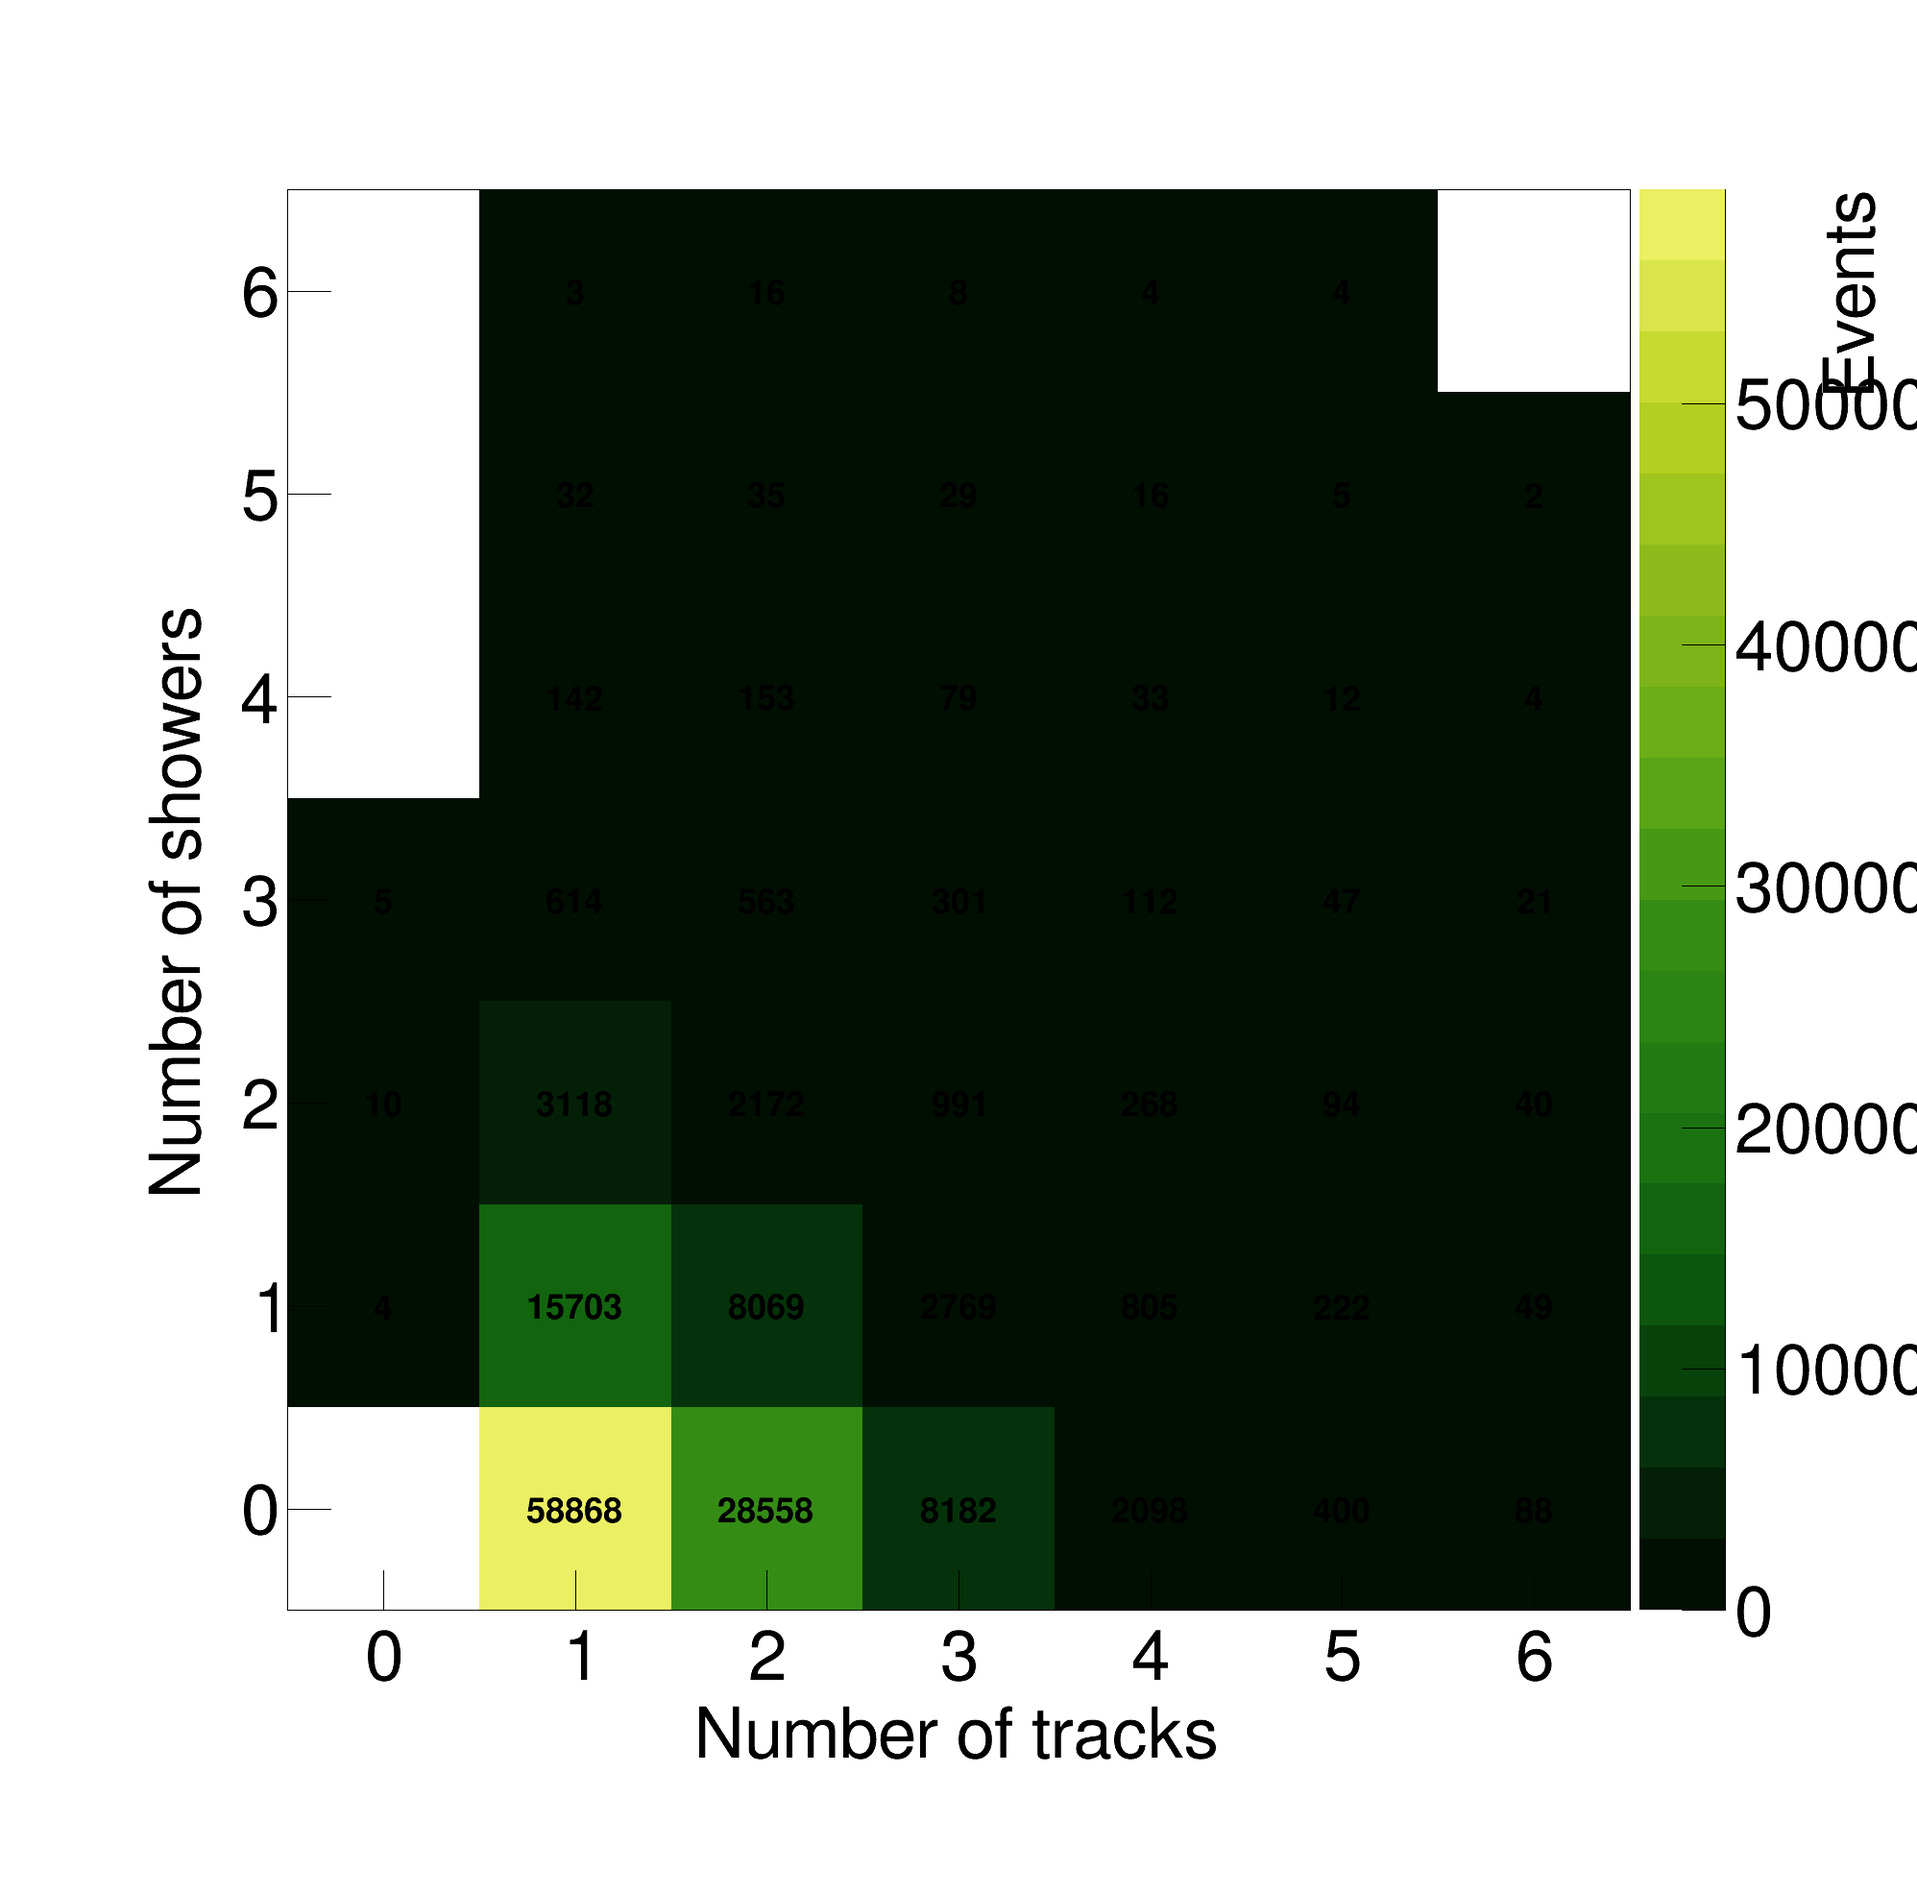
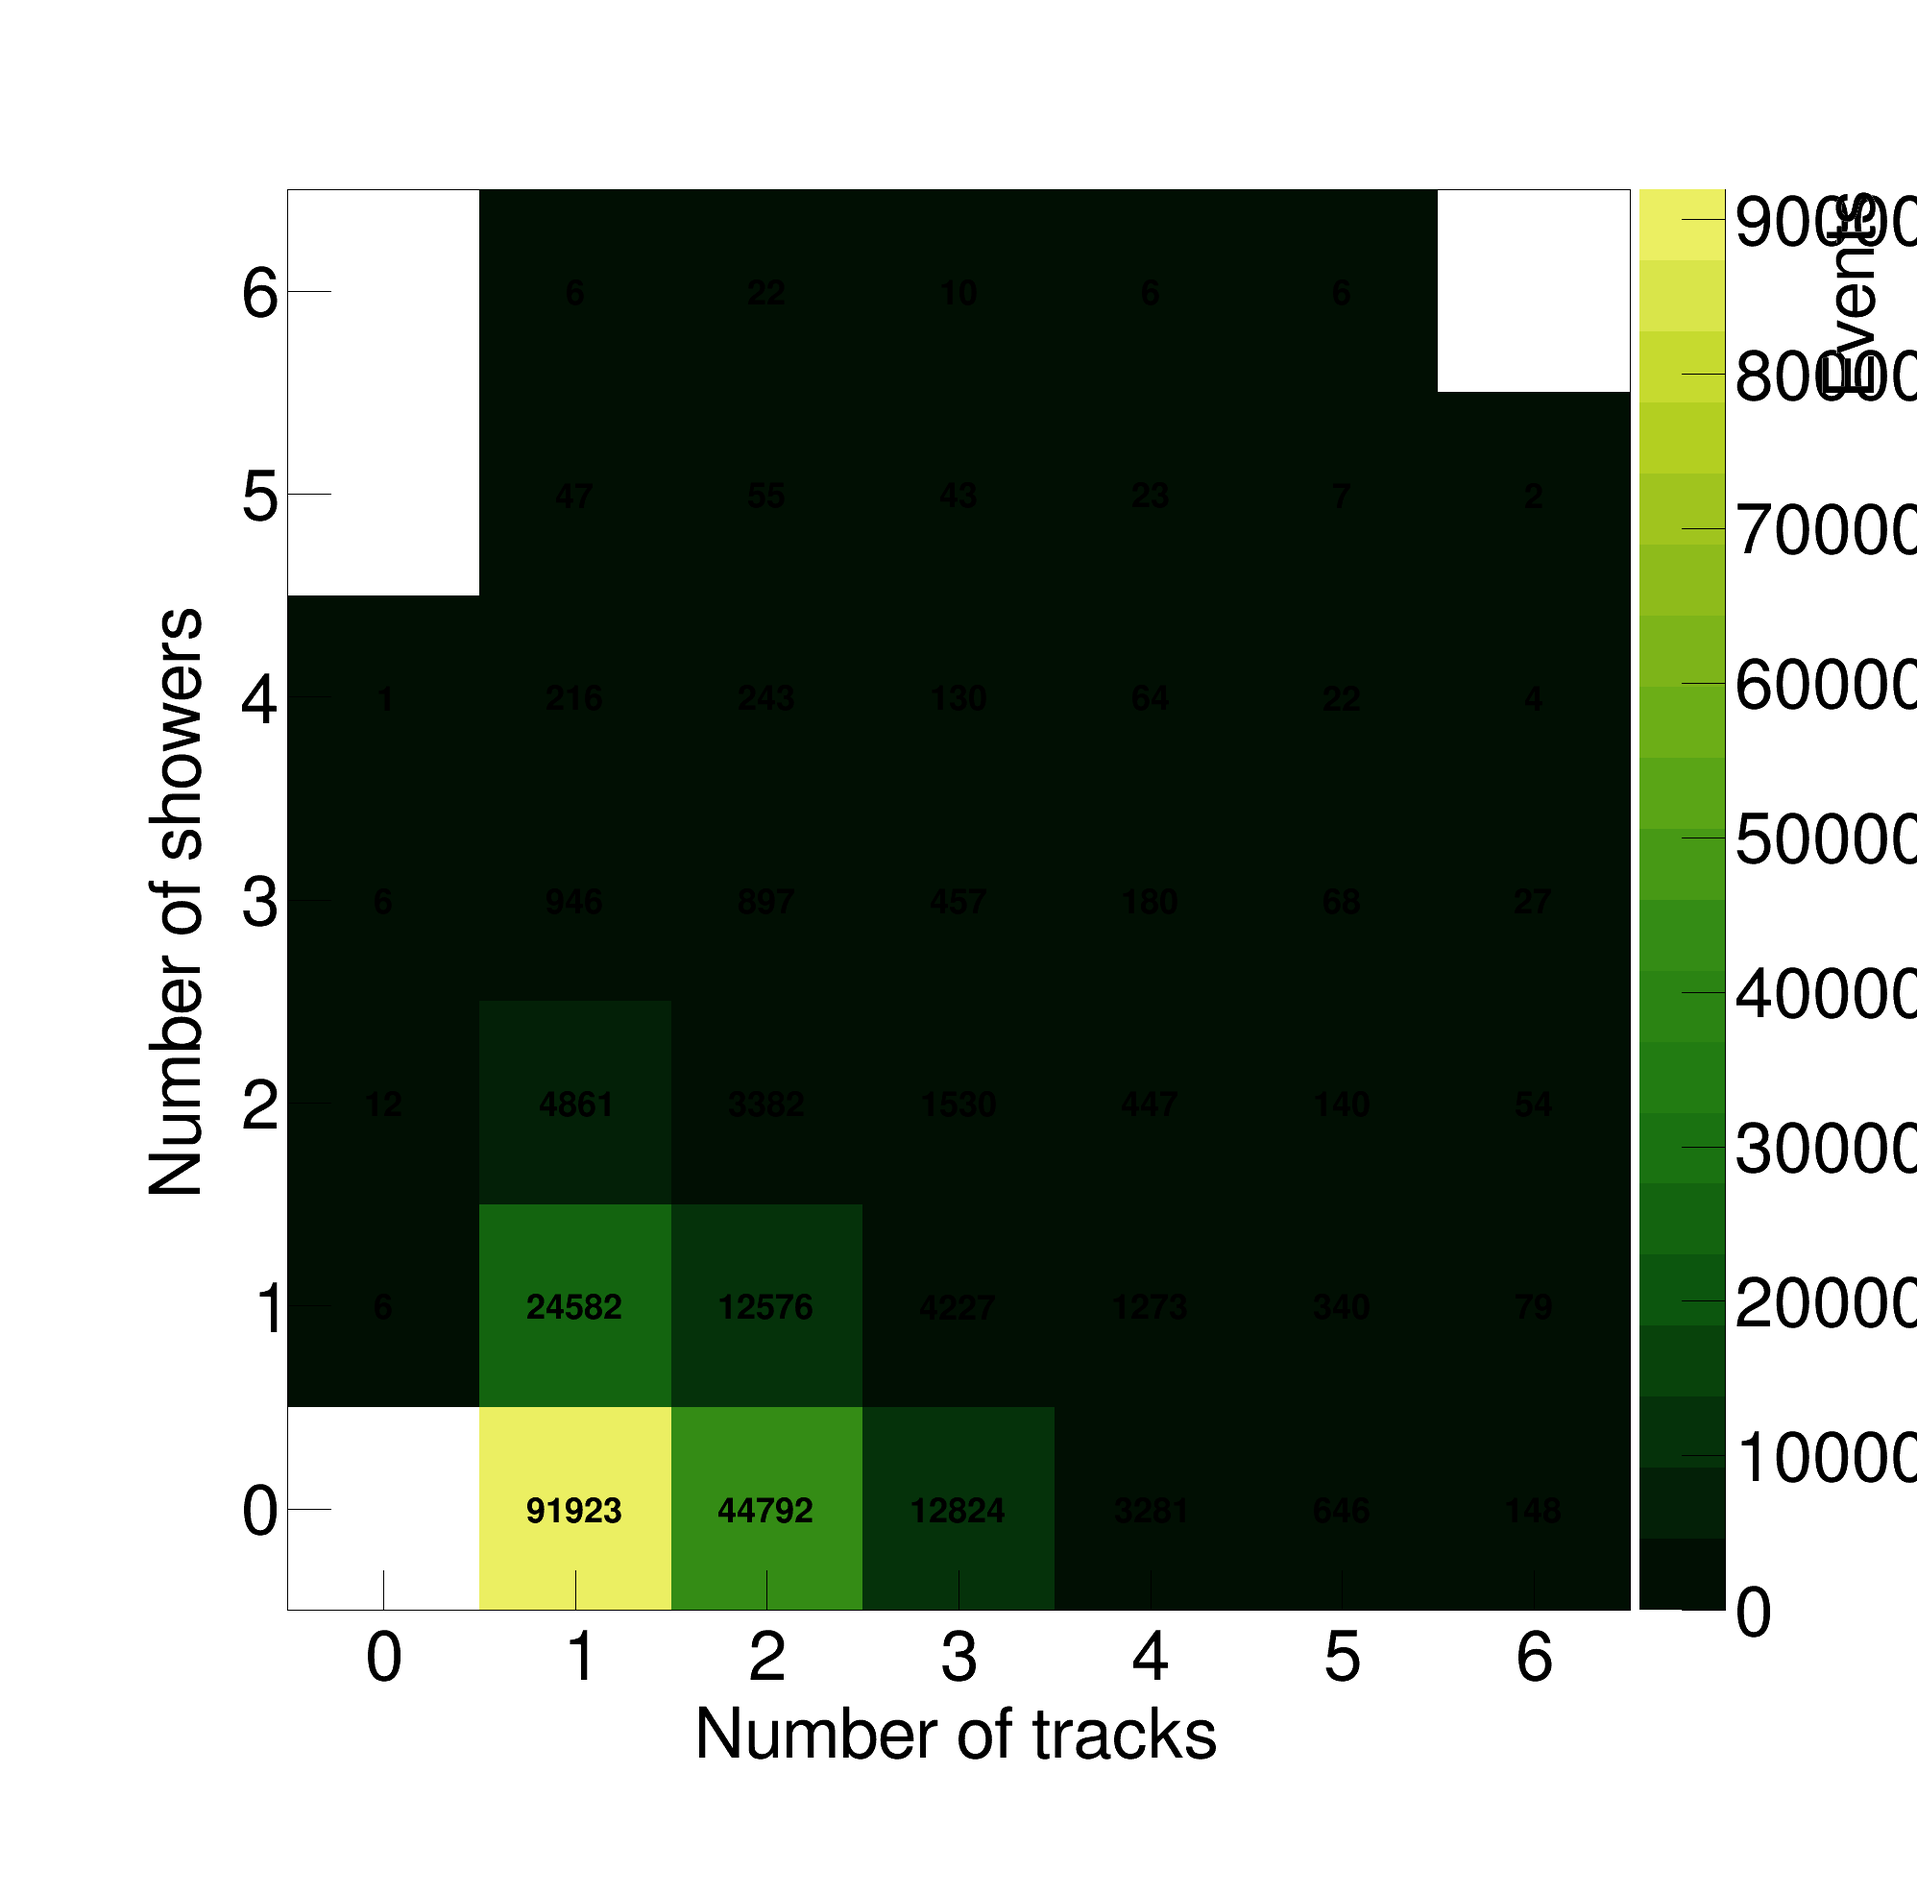
added various new interaction branches to analyzer

diff --git a/output/plots/nTracksShowersBkg.C b/output/plots/nTracksShowersBkg.C
@@ -4,7 +4,7 @@
 void nTracksShowersBkg()
 {
 //=========Macro generated from canvas: c2/Background Track-Shower Topology
-//=========  (Wed Aug 12 12:05:42 2026) by ROOT version 6.40.02
+//=========  (Thu Aug 13 09:48:51 2026) by ROOT version 6.40.02
    TCanvas *c2 = new TCanvas("c2", "Background Track-Shower Topology", 0, 0, 2000, 2000);
    gStyle->SetOptFit(0);
    gStyle->SetOptStat(0);
@@ -20,61 +20,63 @@ void nTracksShowersBkg()
    c2->SetBottomMargin(0.15);
    
    TH2F *nTracksShowersBkg = new TH2F("nTracksShowersBkg", "", 7, -0.5, 6.5, 7, -0.5, 6.5);
-   nTracksShowersBkg->SetBinContent(11,58868);
-   nTracksShowersBkg->SetBinContent(12,28558);
-   nTracksShowersBkg->SetBinContent(13,8182);
-   nTracksShowersBkg->SetBinContent(14,2098);
-   nTracksShowersBkg->SetBinContent(15,400);
-   nTracksShowersBkg->SetBinContent(16,88);
-   nTracksShowersBkg->SetBinContent(17,21);
-   nTracksShowersBkg->SetBinContent(19,4);
-   nTracksShowersBkg->SetBinContent(20,15703);
-   nTracksShowersBkg->SetBinContent(21,8069);
-   nTracksShowersBkg->SetBinContent(22,2769);
-   nTracksShowersBkg->SetBinContent(23,805);
-   nTracksShowersBkg->SetBinContent(24,222);
-   nTracksShowersBkg->SetBinContent(25,49);
-   nTracksShowersBkg->SetBinContent(26,14);
-   nTracksShowersBkg->SetBinContent(28,10);
-   nTracksShowersBkg->SetBinContent(29,3118);
-   nTracksShowersBkg->SetBinContent(30,2172);
-   nTracksShowersBkg->SetBinContent(31,991);
-   nTracksShowersBkg->SetBinContent(32,268);
-   nTracksShowersBkg->SetBinContent(33,94);
-   nTracksShowersBkg->SetBinContent(34,40);
-   nTracksShowersBkg->SetBinContent(35,11);
-   nTracksShowersBkg->SetBinContent(37,5);
-   nTracksShowersBkg->SetBinContent(38,614);
-   nTracksShowersBkg->SetBinContent(39,563);
-   nTracksShowersBkg->SetBinContent(40,301);
-   nTracksShowersBkg->SetBinContent(41,112);
-   nTracksShowersBkg->SetBinContent(42,47);
-   nTracksShowersBkg->SetBinContent(43,21);
-   nTracksShowersBkg->SetBinContent(44,8);
-   nTracksShowersBkg->SetBinContent(47,142);
-   nTracksShowersBkg->SetBinContent(48,153);
-   nTracksShowersBkg->SetBinContent(49,79);
-   nTracksShowersBkg->SetBinContent(50,33);
-   nTracksShowersBkg->SetBinContent(51,12);
+   nTracksShowersBkg->SetBinContent(11,91923);
+   nTracksShowersBkg->SetBinContent(12,44792);
+   nTracksShowersBkg->SetBinContent(13,12824);
+   nTracksShowersBkg->SetBinContent(14,3281);
+   nTracksShowersBkg->SetBinContent(15,646);
+   nTracksShowersBkg->SetBinContent(16,148);
+   nTracksShowersBkg->SetBinContent(17,33);
+   nTracksShowersBkg->SetBinContent(19,6);
+   nTracksShowersBkg->SetBinContent(20,24582);
+   nTracksShowersBkg->SetBinContent(21,12576);
+   nTracksShowersBkg->SetBinContent(22,4227);
+   nTracksShowersBkg->SetBinContent(23,1273);
+   nTracksShowersBkg->SetBinContent(24,340);
+   nTracksShowersBkg->SetBinContent(25,79);
+   nTracksShowersBkg->SetBinContent(26,23);
+   nTracksShowersBkg->SetBinContent(28,12);
+   nTracksShowersBkg->SetBinContent(29,4861);
+   nTracksShowersBkg->SetBinContent(30,3382);
+   nTracksShowersBkg->SetBinContent(31,1530);
+   nTracksShowersBkg->SetBinContent(32,447);
+   nTracksShowersBkg->SetBinContent(33,140);
+   nTracksShowersBkg->SetBinContent(34,54);
+   nTracksShowersBkg->SetBinContent(35,14);
+   nTracksShowersBkg->SetBinContent(37,6);
+   nTracksShowersBkg->SetBinContent(38,946);
+   nTracksShowersBkg->SetBinContent(39,897);
+   nTracksShowersBkg->SetBinContent(40,457);
+   nTracksShowersBkg->SetBinContent(41,180);
+   nTracksShowersBkg->SetBinContent(42,68);
+   nTracksShowersBkg->SetBinContent(43,27);
+   nTracksShowersBkg->SetBinContent(44,11);
+   nTracksShowersBkg->SetBinContent(46,1);
+   nTracksShowersBkg->SetBinContent(47,216);
+   nTracksShowersBkg->SetBinContent(48,243);
+   nTracksShowersBkg->SetBinContent(49,130);
+   nTracksShowersBkg->SetBinContent(50,64);
+   nTracksShowersBkg->SetBinContent(51,22);
    nTracksShowersBkg->SetBinContent(52,4);
-   nTracksShowersBkg->SetBinContent(53,4);
-   nTracksShowersBkg->SetBinContent(56,32);
-   nTracksShowersBkg->SetBinContent(57,35);
-   nTracksShowersBkg->SetBinContent(58,29);
-   nTracksShowersBkg->SetBinContent(59,16);
-   nTracksShowersBkg->SetBinContent(60,5);
+   nTracksShowersBkg->SetBinContent(53,6);
+   nTracksShowersBkg->SetBinContent(56,47);
+   nTracksShowersBkg->SetBinContent(57,55);
+   nTracksShowersBkg->SetBinContent(58,43);
+   nTracksShowersBkg->SetBinContent(59,23);
+   nTracksShowersBkg->SetBinContent(60,7);
    nTracksShowersBkg->SetBinContent(61,2);
-   nTracksShowersBkg->SetBinContent(65,3);
-   nTracksShowersBkg->SetBinContent(66,16);
-   nTracksShowersBkg->SetBinContent(67,8);
-   nTracksShowersBkg->SetBinContent(68,4);
-   nTracksShowersBkg->SetBinContent(69,4);
-   nTracksShowersBkg->SetBinContent(74,2);
-   nTracksShowersBkg->SetBinContent(75,6);
-   nTracksShowersBkg->SetBinContent(76,2);
+   nTracksShowersBkg->SetBinContent(65,6);
+   nTracksShowersBkg->SetBinContent(66,22);
+   nTracksShowersBkg->SetBinContent(67,10);
+   nTracksShowersBkg->SetBinContent(68,6);
+   nTracksShowersBkg->SetBinContent(69,6);
+   nTracksShowersBkg->SetBinContent(74,4);
+   nTracksShowersBkg->SetBinContent(75,9);
+   nTracksShowersBkg->SetBinContent(76,7);
+   nTracksShowersBkg->SetBinContent(77,1);
    nTracksShowersBkg->SetBinContent(78,1);
-   nTracksShowersBkg->SetBinContent(79,1);
-   nTracksShowersBkg->SetEntries(134818);
+   nTracksShowersBkg->SetBinContent(79,2);
+   nTracksShowersBkg->SetEntries(210722);
    nTracksShowersBkg->SetDirectory(nullptr);
    nTracksShowersBkg->SetContour(20);
    

diff --git a/AnalyzeEvents_module.cc b/AnalyzeEvents_module.cc
@@ -150,6 +150,13 @@ private:
   int fRun;       // Run number
   int fSubRun; // Sub run number
  
+  std::vector<std::string> trueOrigin;
+  std::vector<float> trueW;
+  std::vector<float> trueX;
+  std::vector<float> trueY;
+  std::vector<float> trueQSqr;
+  std::vector<float> truePt;
+  std::vector<float> trueTheta;
   std::vector<float> trueNuVtxX;
   std::vector<float> trueNuVtxY;
   std::vector<float> trueNuVtxZ;
@@ -1133,6 +1140,8 @@ for (size_t i_truth = 0; i_truth < mclist.size(); ++i_truth)
     std::cout
         << "\n========== MCTruth " << i_truth << " =========="<< std::endl;
 
+    std::cout<< "MCTruth Origin: "<< truth->Origin()<< std::endl;
+
     std::cout<< "Neutrino PDG: "<< nu.PdgCode()<< std::endl;
 
     std::cout<< "Interaction mode: "<< neutrino.Mode()<< std::endl;
@@ -1149,20 +1158,21 @@ for (size_t i_truth = 0; i_truth < mclist.size(); ++i_truth)
 
     std::cout<< "Generator neutrino TrackID: "<< nu.TrackId()<< std::endl;
 
+
+    trueOrigin.push_back(truth->Origin());
+    trueW.push_back(neutrino.W());
+    trueX.push_back(neutrino.X());
+    trueY.push_back(neutrino.Y());
+    trueQSqr.push_back(neutrino.QSqr());
+    truePt.push_back(neutrino.Pt());
+    trueTheta.push_back(neutrino.Theta());
     trueNuPDG.push_back(nu.PdgCode());
-
     trueNuEnergy.push_back(nu.E());
-
     trueCCNC.push_back(neutrino.CCNC());
-
     trueIntMode.push_back(neutrino.Mode());
-
     trueIntType.push_back(neutrino.InteractionType());
-
     trueTargetPDG.push_back(neutrino.Target());
-
     trueNuTrackID.push_back(nu.TrackId());
-
     trueNuVtxX.push_back(nu.Vx());
     trueNuVtxY.push_back(nu.Vy());
     trueNuVtxZ.push_back(nu.Vz());
@@ -1445,43 +1455,30 @@ for (size_t i_truth = 0; i_truth < mclist.size(); ++i_truth)
             // Start position
 
             trueStartX.push_back(particle->Vx());
-
             trueStartY.push_back(particle->Vy());
-
             trueStartZ.push_back(particle->Vz());
-
             trueStartT.push_back(particle->T());
 
             // Initial momentum
 
             truePx.push_back(particle->Px());
-
             truePy.push_back(particle->Py());
-
             truePz.push_back(particle->Pz());
-
             trueP.push_back(particle->P());
-
             trueE.push_back(particle->E());
 
             // End position
 
             trueEndX.push_back(particle->EndX());
-
             trueEndY.push_back(particle->EndY());
-
             trueEndZ.push_back(particle->EndZ());
-
             trueEndT.push_back(particle->EndT());
 
             // End momentum
 
             trueEndPx.push_back(particle->EndPx());
-
             trueEndPy.push_back(particle->EndPy());
-
             trueEndPz.push_back(particle->EndPz());
-
             trueEndE.push_back(particle->EndE());
 
 
@@ -1656,6 +1653,13 @@ std::cout<<"trueIntMode size = "<<trueIntMode.size()<<std::endl;
 std::cout<<"trueIntType size = "<<trueIntType.size()<<std::endl;
 std::cout<<"trueCCNC size = "<<trueCCNC.size()<<std::endl;
 
+    trueOrigin.clear();
+    trueW.clear()
+    trueX.clear();
+    trueY.clear();
+    trueQSqr.clear();
+    truePt.clear();
+    trueTheta.clear();
     trueNuPDG.clear();
     trueNuTrackID.clear();
     trueNuVtxX.clear();
@@ -1719,6 +1723,13 @@ void hyperon::AnalyzeEvents::beginJob()
   fTree ->Branch("run", &fRun, "run/I");
   fTree ->Branch("subrun", &fSubRun, "subrun/I");
 
+  fTree->Branch("trueOrigin", &trueOrigin);
+  fTree->Branch("trueW", &trueW);
+  fTree->Branch("trueX", &trueX);
+  fTree->Branch("trueY", &trueY);
+  fTree->Branch("trueQSqr", &trueQSqr);
+  fTree->Branch("truePt", &truePt);
+  fTree->Branch("trueTheta", &trueTheta);
   fTree->Branch("trueNuPDG", &trueNuPDG);
   fTree->Branch("trueNuTrackID", &trueNuTrackID);
   fTree->Branch("trueNuVtxX", &trueNuVtxX);

diff --git a/output/plots/nTracksShowersSig.C b/output/plots/nTracksShowersSig.C
@@ -4,7 +4,7 @@
 void nTracksShowersSig()
 {
 //=========Macro generated from canvas: c1/Track-Shower Topology
-//=========  (Wed Aug 12 12:05:41 2026) by ROOT version 6.40.02
+//=========  (Thu Aug 13 09:48:51 2026) by ROOT version 6.40.02
    TCanvas *c1 = new TCanvas("c1", "Track-Shower Topology", 0, 0, 2000, 2000);
    gStyle->SetOptFit(0);
    gStyle->SetOptStat(0);
